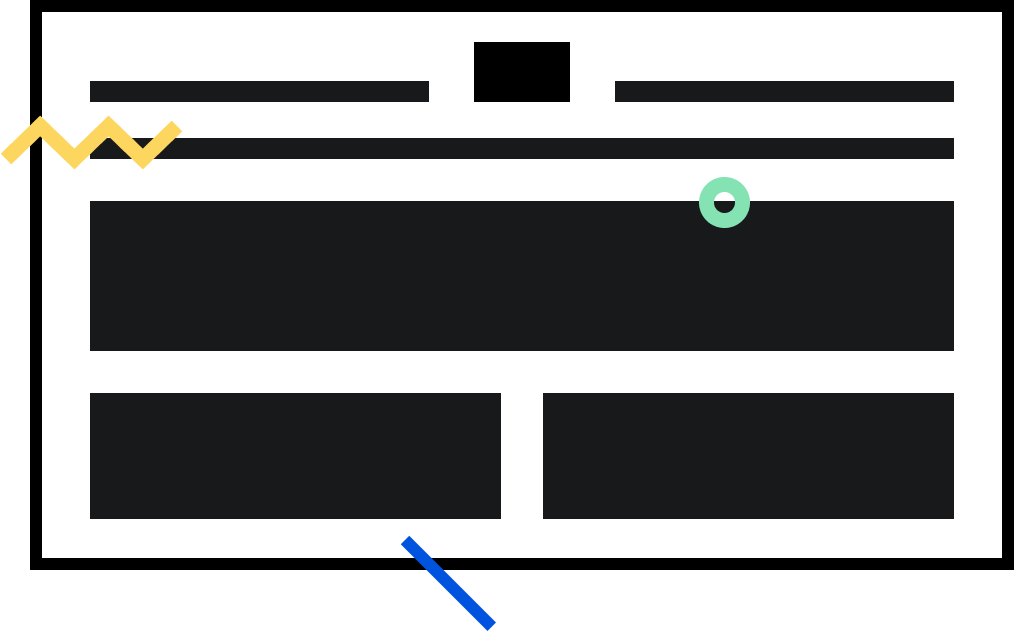
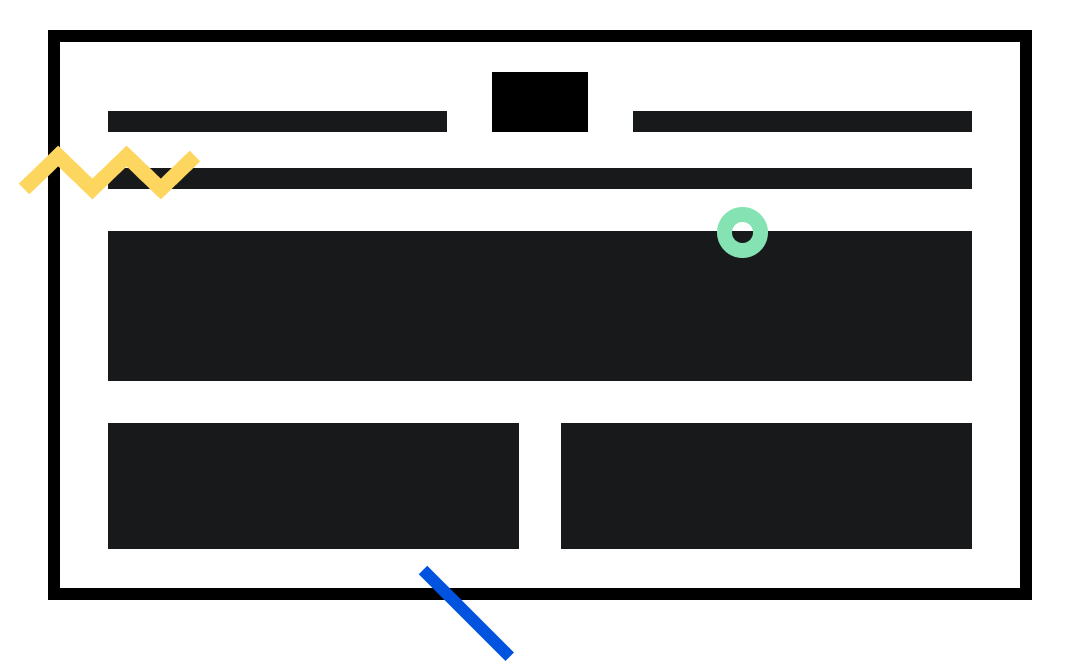
fix/COM-1259 исправляет изображения

Changed region(s): [[0.0, 0.0, 1.0, 1.0]]

diff --git a/components/industry/ProjectsItem/ProjectsItem.styles.js b/components/industry/ProjectsItem/ProjectsItem.styles.js
@@ -316,26 +316,25 @@ const base = ({ colors,  breakpoints: { desktop, tablet, mobile }}) => css`
   ${mobile.all} {
     .image {
       grid-row: 1;
+      width: ${calcRem(360)};
+      margin-bottom: ${calcRem(14)};
     }
 
     &.first-item .image {
-      width: ${calcRem(336)};
-      margin-left: ${calcRem(-9)};
+      margin-left: ${calcRem(-16)};
     }
 
     &.second-item .image {
-      width: ${calcRem(340)};
+      margin-left: ${calcRem(-16)};
     }
 
     &.third-item .image {
       margin-top: 0;
-      margin-left: ${calcRem(-12)};
-      width: ${calcRem(350)};
+      margin-left: ${calcRem(-16)};
     }
 
     .item-heading {
       grid-row: 2;
-      margin-top: ${calcRem(19)};
     }
 
     .text {

diff --git a/components/industry/Projects/Projects.styles.js b/components/industry/Projects/Projects.styles.js
@@ -126,7 +126,7 @@ const base = ({ breakpoints: { desktop, tablet, mobile }, colors }) => css`
     }
 
     .first-item {
-      margin-top: ${calcRem(90)};
+      margin-top: ${calcRem(78)};
     }
 
     .second-item {
